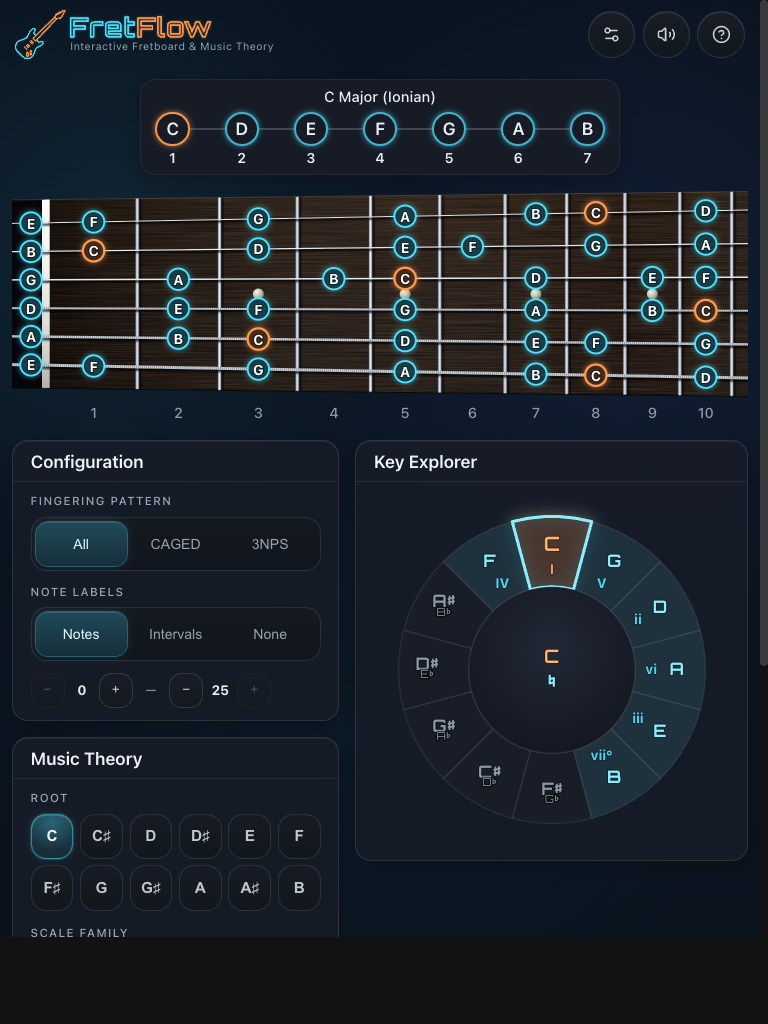
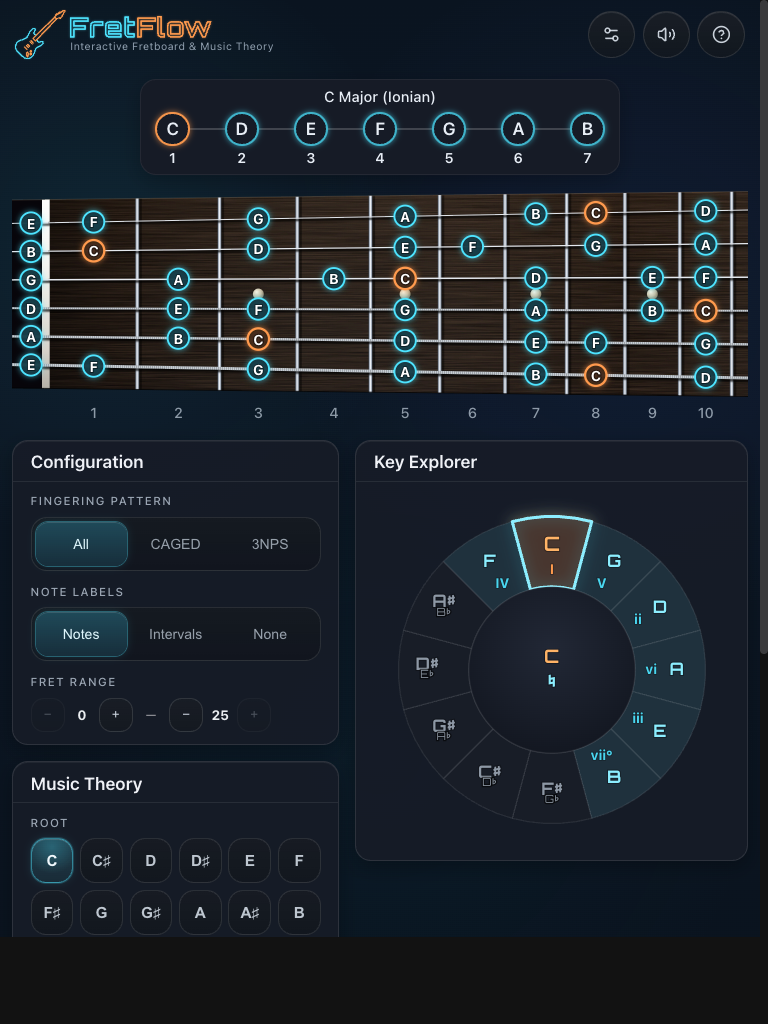
fix(styles): add Fret Range section label above dashboard fret control
Adds a FRET RANGE section label consistent with FINGERING PATTERN and
NOTE LABELS, now that the inline Start/End per-group labels are hidden
on tablet to prevent overflow.

diff --git a/src/components/ExpandedControlsPanel.tsx b/src/components/ExpandedControlsPanel.tsx
@@ -1,5 +1,6 @@
 import "./ExpandedControlsPanel.css";
 import { useMemo } from "react";
+import shared from "./shared.module.css";
 import { useAtomValue, useSetAtom, useAtom } from "jotai";
 import {
   rootNoteAtom,
@@ -60,14 +61,17 @@ export function BaseControlsSection() {
           displayFormat={displayFormat}
           setDisplayFormat={setDisplayFormat}
         />
-        <FretRangeControl
-          startFret={fretStart}
-          endFret={fretEnd}
-          onStartChange={setFretStart}
-          onEndChange={setFretEnd}
-          maxFret={END_FRET}
-          layout="dashboard"
-        />
+        <div className={shared["control-section"]}>
+          <span className={shared["section-label"]}>Fret Range</span>
+          <FretRangeControl
+            startFret={fretStart}
+            endFret={fretEnd}
+            onStartChange={setFretStart}
+            onEndChange={setFretEnd}
+            maxFret={END_FRET}
+            layout="dashboard"
+          />
+        </div>
       </div>
     </Card>
   );
